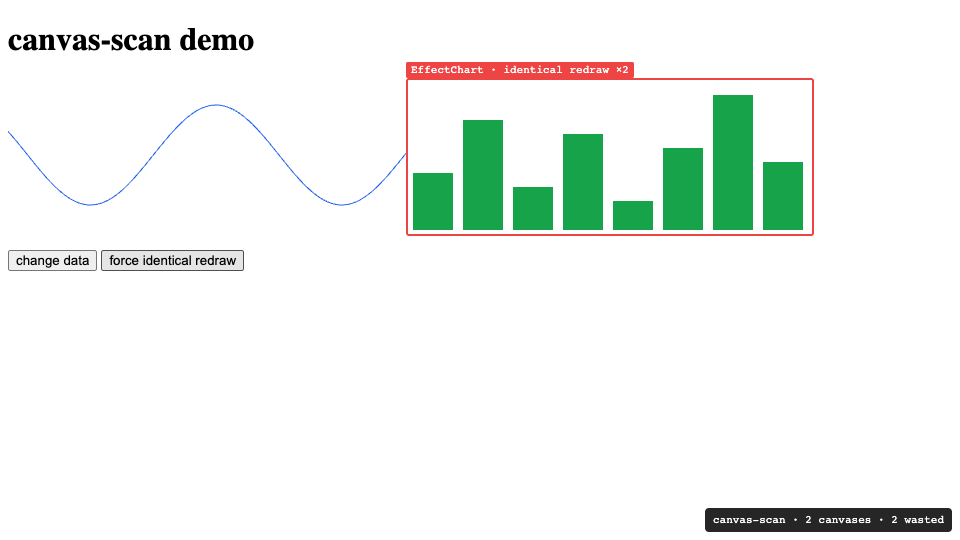
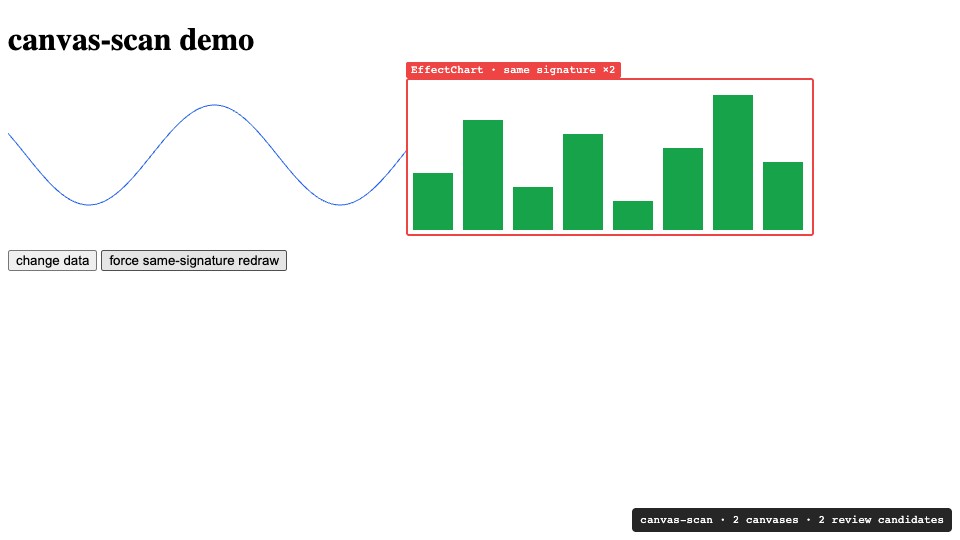
Hardening batch 1: CI fix + claim-discipline copy sweep
- ci.yml: drop the pnpm/action-setup version input; it conflicts with
  the packageManager pin and failed every run at setup.
- Copy only, per the cross-review agreement: overlay label is now
  'same signature xN', HUD counts 'review candidates', README tagline
  and package description drop the waste claim, demo button renamed
  'force same-signature redraw' (harness selectors updated).
- test/claim-discipline.test.ts: user-facing copy can never reassert
  wasted / identical-redraw / pixel-identical / repaint-cost claims
  (disclaimer negations allowed). 82 tests.
- docs/demo.gif + docs/overlay.png regenerated with the new copy.
- @types/node added for the new test; node_modules relinked from the
  global pnpm store (a sandboxed run had left it pointing at a deleted
  repo-local store, breaking pnpm add).

diff --git a/packages/core/test/claim-discipline.test.ts b/packages/core/test/claim-discipline.test.ts
@@ -1,0 +1,47 @@
+import { readFileSync } from 'node:fs';
+import { dirname, join } from 'node:path';
+import { fileURLToPath } from 'node:url';
+import { describe, expect, it } from 'vitest';
+
+// Rev 2 claim discipline (HANDOFF.md): user-facing copy must never assert
+// waste, pixel identity, identical output, or repaint cost. Disclaimer lines
+// that explicitly NEGATE a claim are allowed.
+const FORBIDDEN = [
+  /\bwasted\b/i,
+  /identical redraw/i,
+  /pixel-?identical/i,
+  /repaint cost/i,
+];
+const DISCLAIMER = /does not claim|never claims/i;
+
+const packageDir = join(dirname(fileURLToPath(import.meta.url)), '..');
+
+function offendingLines(text: string): string[] {
+  return text
+    .split('\n')
+    .filter((line) => !DISCLAIMER.test(line))
+    .filter((line) => FORBIDDEN.some((pattern) => pattern.test(line)));
+}
+
+describe('claim discipline', () => {
+  it('keeps forbidden claims out of the overlay copy', () => {
+    const source = readFileSync(join(packageDir, 'src/overlay.ts'), 'utf8');
+    expect(offendingLines(source)).toEqual([]);
+  });
+
+  it('keeps forbidden claims out of the package description', () => {
+    const manifest = JSON.parse(
+      readFileSync(join(packageDir, 'package.json'), 'utf8'),
+    );
+    expect(offendingLines(manifest.description)).toEqual([]);
+  });
+
+  it('keeps forbidden claims out of both READMEs', () => {
+    for (const file of [
+      join(packageDir, 'README.md'),
+      join(packageDir, '../../README.md'),
+    ]) {
+      expect(offendingLines(readFileSync(file, 'utf8'))).toEqual([]);
+    }
+  });
+});

diff --git a/packages/core/src/overlay.ts b/packages/core/src/overlay.ts
@@ -67,7 +67,7 @@ function updateHud(): void {
     totalSame += canvasStats.same;
   }
 
-  const text = `canvas-scan · ${stats.size} canvases · ${totalSame} wasted`;
+  const text = `canvas-scan · ${stats.size} canvases · ${totalSame} review candidates`;
   if (hudText.nodeValue !== text) hudText.nodeValue = text;
 
   const now = Date.now();
@@ -109,11 +109,11 @@ function flashOutline(
   outline.style.height = `${rect.height + 4}px`;
   const label = outline.querySelector('.label');
   if (label) {
-    label.textContent = `${report.nearestReactOwner ?? report.canvasId} · identical redraw ×${same}`;
+    label.textContent = `${report.nearestReactOwner ?? report.canvasId} · same signature ×${same}`;
   }
 
   outline.classList.remove('flash', 'fading');
-  // Force reflow so repeated identical redraws restart the flash.
+  // Force reflow so consecutive same-signature windows restart the flash.
   void outline.offsetWidth;
   outline.classList.add('flash');
   requestAnimationFrame(() => outline.classList.add('fading'));
@@ -160,7 +160,7 @@ export function mountOverlay(): void {
 
   hud = document.createElement('div');
   hud.className = 'hud';
-  hudText = document.createTextNode('canvas-scan · 0 canvases · 0 wasted');
+  hudText = document.createTextNode('canvas-scan · 0 canvases · 0 review candidates');
   hudList = document.createElement('ul');
   hudList.className = 'hud-list';
   hud.append(hudText, hudList);

diff --git a/packages/core/test/overlay.test.ts b/packages/core/test/overlay.test.ts
@@ -55,7 +55,7 @@ describe('overlay', () => {
     expect(hosts[0]?.shadowRoot?.querySelector('.hud')).not.toBeNull();
   });
 
-  it('reuses and updates an outline for identical redraws', () => {
+  it('reuses and updates an outline for repeated same-signature windows', () => {
     mountOverlay();
     const canvas = makeCanvas();
     const host = document.querySelector('[data-canvas-scan]');
@@ -97,7 +97,7 @@ describe('overlay', () => {
       '1 canvases',
     );
     expect(host?.shadowRoot?.querySelector('.hud')?.textContent).toContain(
-      '0 wasted',
+      '0 review candidates',
     );
   });
 
@@ -110,7 +110,7 @@ describe('overlay', () => {
 
     expect(host?.shadowRoot?.querySelector('.outline')).toBeNull();
     expect(host?.shadowRoot?.querySelector('.hud')?.textContent).toContain(
-      '1 canvases · 1 wasted',
+      '1 canvases · 1 review candidates',
     );
   });
 

diff --git a/apps/demo/src/App.tsx b/apps/demo/src/App.tsx
@@ -47,7 +47,7 @@ export function App() {
       <EffectChart value={value} nonce={nonce} />
       <p>
         <button onClick={() => setValue((v) => v + 1)}>change data</button>{' '}
-        <button onClick={() => setNonce((n) => n + 1)}>force identical redraw</button>
+        <button onClick={() => setNonce((n) => n + 1)}>force same-signature redraw</button>
       </p>
     </main>
   );

diff --git a/HANDOFF.md b/HANDOFF.md
@@ -289,6 +289,13 @@ is in Yomi's Codex outputs dir, `canvas-scan-progress-review-2026-07-27.md`.
    pin) + claim-discipline copy sweep ("wasted"/"identical redraw" violate
    Rev 2 labels; use "same signature ×N" / "review candidate") + a copy
    regression test. Copy only — no behavioral changes in this batch.
+   **DONE 2026-07-27**: pnpm version input dropped; overlay/README/package
+   description now use "same signature ×N" / "review candidates";
+   `test/claim-discipline.test.ts` guards user-facing copy (disclaimer
+   negations allowed); GIF + screenshot regenerated with the new copy;
+   82 tests. (Also unblocked: node_modules relinked from the global pnpm
+   store — a Codex-sandbox run had left it pointing at a deleted repo-local
+   store, breaking `pnpm add`.)
 2. P0: signature framing — the hash concatenates unframed chars, so
    `fillRect(1, 23, …)` vs `fillRect(12, 3, …)` collide deterministically.
    Type-tagged, length-framed tokens + op boundaries + adversarial tests.
@@ -353,7 +360,8 @@ is in Yomi's Codex outputs dir, `canvas-scan-progress-review-2026-07-27.md`.
   grammar, not its worker/SAB pipeline — see Decisions locked).
   **Status 2026-07-27: slice 1 DONE.** `overlay.ts`: shadow-DOM host
   (fixed, pointer-events:none, survival re-append), red outline flash +
-  `"<Owner> · identical redraw ×N"` label on `same` windows, HUD pill with
+  `"<Owner> · same signature ×N"` label on `same` windows (copy updated in
+  hardening batch 1), HUD pill with
   per-canvas stats, `start({ overlay: false })` opt-out. Frame loop gained a
   subscriber API (`subscribeToReports`/`emitReport`, bad listeners ejected).
   Overlay is DOM-only — deliberately no canvas, so it can't instrument

diff --git a/README.md b/README.md
@@ -1,6 +1,7 @@
 # canvas-scan
 
-Find wasted canvas redraws in React apps.
+Surface repeated canvas command signatures — likely redundant redraws — in
+React apps.
 
 canvas-scan is a drop-in dev tool for canvas-heavy React apps. One early
 import instruments every observable main-thread Canvas2D canvas on the page.
@@ -9,7 +10,7 @@ canvas API self-time, and a frame-over-frame command-signature comparison.
 When a canvas repeats the previous window's command signature, the overlay
 flashes a red outline with the owner's name.
 
-![The overlay flags an identical redraw on the demo chart](docs/demo.gif)
+![The overlay flags a repeated command signature on the demo chart](docs/demo.gif)
 
 ## Status
 

diff --git a/packages/core/README.md b/packages/core/README.md
@@ -1,6 +1,7 @@
 # canvas-scan
 
-Find wasted canvas redraws in React apps.
+Surface repeated canvas command signatures — likely redundant redraws — in
+React apps.
 
 canvas-scan is a drop-in dev tool for canvas-heavy React apps. One early
 import instruments every observable main-thread Canvas2D canvas on the page.
@@ -9,7 +10,7 @@ canvas API self-time, and a frame-over-frame command-signature comparison.
 When a canvas repeats the previous window's command signature, the overlay
 flashes a red outline with the owner's name.
 
-![The overlay flags an identical redraw on the demo chart](docs/demo.gif)
+![The overlay flags a repeated command signature on the demo chart](docs/demo.gif)
 
 ## Status
 
